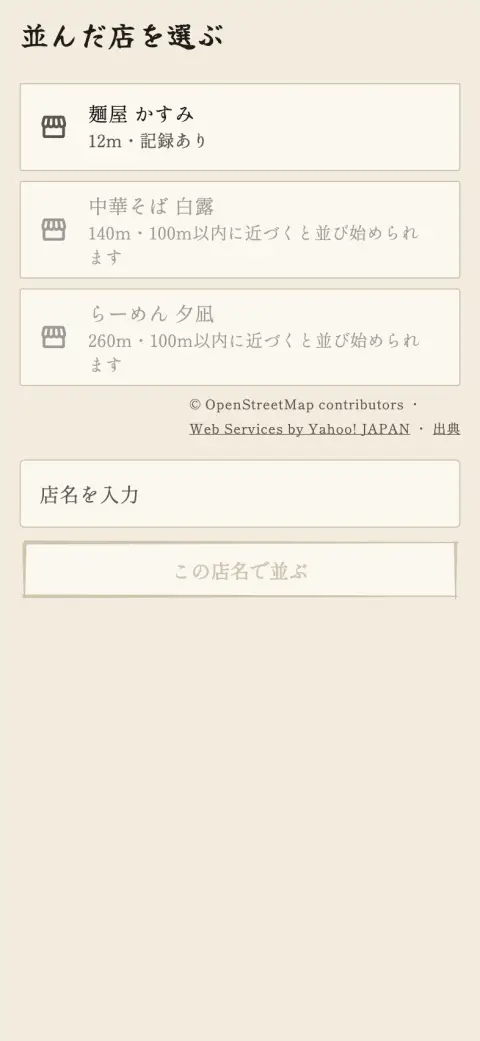
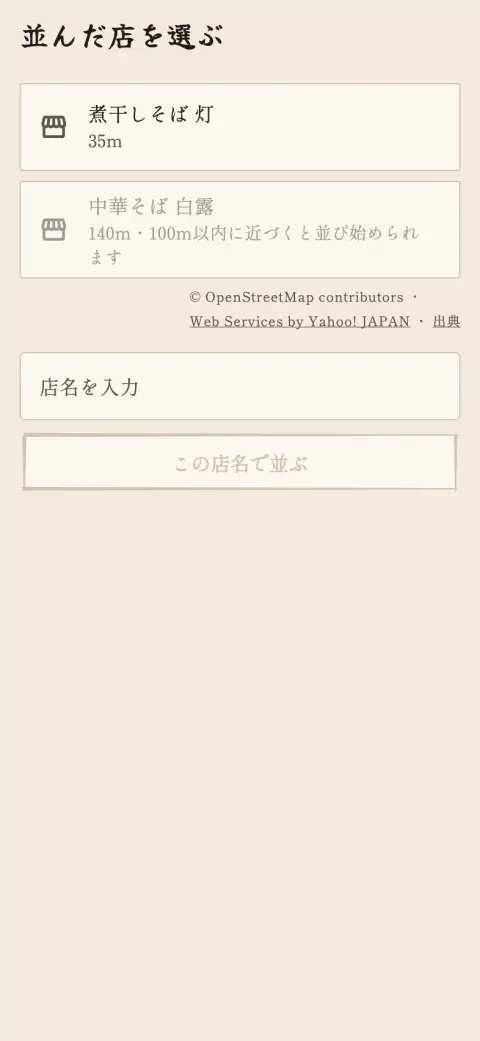
使い方の文言・絵の枠・架空の店の位置を直す

diff --git a/test/tool/help_shots_test.dart b/test/tool/help_shots_test.dart
@@ -68,7 +68,7 @@ const _here = GeoPoint(35.0, 139.0);
 final _kasumi = buildShop(
   id: 'kasumi',
   name: '麺屋 かすみ',
-  latitude: 35.003,
+  latitude: 35.0025,
   longitude: 139.0,
   osmId: 'node/1',
 );
@@ -167,11 +167,15 @@ final _wishes = [
 ];
 
 const _found = [
-  FoundShop(osmId: 'node/1', name: '麺屋 かすみ', location: GeoPoint(35.0, 139.0)),
+  FoundShop(
+    osmId: 'node/1',
+    name: '麺屋 かすみ',
+    location: GeoPoint(35.0025, 139.0),
+  ),
   FoundShop(
     osmId: 'node/21',
     name: '中華そば 白露',
-    location: GeoPoint(35.003, 138.996),
+    location: GeoPoint(35.0025, 138.996),
   ),
   FoundShop(
     osmId: 'node/22',
@@ -187,15 +191,9 @@ const _found = [
 
 const _candidates = [
   ShopCandidate(
-    shopId: 'kasumi',
-    name: '麺屋 かすみ',
-    location: GeoPoint(35.0, 139.0),
-    distanceMeters: 12,
-  ),
-  ShopCandidate(
     osmId: 'node/21',
     name: '中華そば 白露',
-    location: GeoPoint(35.003, 138.996),
+    location: GeoPoint(35.0025, 138.996),
     distanceMeters: 140,
   ),
   ShopCandidate(
@@ -203,6 +201,12 @@ const _candidates = [
     name: 'らーめん 夕凪',
     location: GeoPoint(34.996, 139.004),
     distanceMeters: 260,
+  ),
+  ShopCandidate(
+    shopId: 'kasumi',
+    name: '麺屋 かすみ',
+    location: GeoPoint(35.0025, 139.0),
+    distanceMeters: 280,
   ),
 ];
 
@@ -266,13 +270,29 @@ _Scene _sceneFor(HelpShot shot) => switch (shot) {
   HelpShot.recordResult => _scene(
     home: const RecordResultScreen(visitId: 'today'),
   ),
-  HelpShot.queueStart => _scene(home: const CheckinScreen()),
+  HelpShot.queueStart => _scene(
+    home: const CheckinScreen(),
+    candidates: const [
+      ShopCandidate(
+        osmId: 'node/24',
+        name: '煮干しそば 灯',
+        location: GeoPoint(35.0003, 139.0),
+        distanceMeters: 35,
+      ),
+      ShopCandidate(
+        osmId: 'node/21',
+        name: '中華そば 白露',
+        location: GeoPoint(35.0025, 138.996),
+        distanceMeters: 140,
+      ),
+    ],
+  ),
   HelpShot.queueWaiting => _scene(
     tab: AppTab.records,
     checkin: Checkin(
       shopId: _kasumi.id,
       name: _kasumi.name,
-      latitude: 35.003,
+      latitude: 35.0025,
       longitude: 139.0,
       checkedInAt: _now.subtract(const Duration(minutes: 25)),
     ),
@@ -289,6 +309,9 @@ _Scene _sceneFor(HelpShot shot) => switch (shot) {
     tab: AppTab.map,
     act: (tester) async {
       await tester.tap(find.byTooltip(ja.mapSearchHere));
+      await _settle(tester);
+      // 見つかった軒数の知らせが消え、探すボタンが見えるまで待つ。
+      await tester.pump(const Duration(seconds: 5));
       await _settle(tester);
     },
   ),

diff --git a/lib/l10n/app_localizations_ja.dart b/lib/l10n/app_localizations_ja.dart
@@ -1830,7 +1830,8 @@ class AppLocalizationsJa extends AppLocalizations {
   String get helpRatingTitle => '★をあとで付ける';
 
   @override
-  String get helpRating => '★は食べ終わってからで大丈夫です。印帳の上の「〇〇 はどうでしたか？」で付けられます。';
+  String get helpRating =>
+      '★は食べ終わってからで大丈夫です。食べてから半日は、印帳の上の「〇〇 はどうでしたか？」で付けられます。店のページからもいつでも付けられます。';
 
   @override
   String get helpWishTitle => '願掛け';
@@ -1846,7 +1847,7 @@ class AppLocalizationsJa extends AppLocalizations {
   String get helpMapTitle => '地図で店を探す';
 
   @override
-  String get helpMapSearch => '地図の「このあたりのラーメン店を探す」で、まだ行っていない店が灰色のピンで出ます。';
+  String get helpMapSearch => '地図の右下の「このあたりを探す」で、まだ行っていない店が灰色のピンで出ます。';
 
   @override
   String get helpJourneyTitle => '旅路';

diff --git a/lib/l10n/app_localizations.dart b/lib/l10n/app_localizations.dart
@@ -3253,7 +3253,7 @@ abstract class AppLocalizations {
   /// No description provided for @helpRating.
   ///
   /// In ja, this message translates to:
-  /// **'★は食べ終わってからで大丈夫です。印帳の上の「〇〇 はどうでしたか？」で付けられます。'**
+  /// **'★は食べ終わってからで大丈夫です。食べてから半日は、印帳の上の「〇〇 はどうでしたか？」で付けられます。店のページからもいつでも付けられます。'**
   String get helpRating;
 
   /// No description provided for @helpWishTitle.
@@ -3283,7 +3283,7 @@ abstract class AppLocalizations {
   /// No description provided for @helpMapSearch.
   ///
   /// In ja, this message translates to:
-  /// **'地図の「このあたりのラーメン店を探す」で、まだ行っていない店が灰色のピンで出ます。'**
+  /// **'地図の右下の「このあたりを探す」で、まだ行っていない店が灰色のピンで出ます。'**
   String get helpMapSearch;
 
   /// No description provided for @helpJourneyTitle.

diff --git a/lib/features/help/help_screen.dart b/lib/features/help/help_screen.dart
@@ -149,10 +149,11 @@ class _HelpPageView extends StatelessWidget {
         children: [
           Expanded(
             child: Center(
-              child: DecoratedBox(
+              child: Container(
+                padding: const EdgeInsets.all(3),
                 decoration: BoxDecoration(
+                  color: Washi.ink,
                   borderRadius: BorderRadius.circular(16),
-                  border: Border.all(color: Washi.ink, width: 3),
                   boxShadow: const [
                     BoxShadow(
                       color: Color(0x33000000),
@@ -166,6 +167,7 @@ class _HelpPageView extends StatelessWidget {
                   child: Image.asset(
                     page.shot.asset,
                     fit: BoxFit.contain,
+                    semanticLabel: page.caption(l10n),
                     errorBuilder: (_, _, _) => const AspectRatio(
                       aspectRatio: 393 / 852,
                       child: ColoredBox(color: Washi.page),

diff --git a/docs/decisions/2026-10-06-onboarding-3-steps.md b/docs/decisions/2026-10-06-onboarding-3-steps.md
@@ -2,5 +2,5 @@
 
 - 日付: 2026-10-06
 - 決定: 記録が0件でまだ案内を終えていないときに出す「入門の心得」を、其の一 入門（印の見本と、修行点・段位・願掛けの短い説明）→ 其の二 拠点（「現在地を拠点にする」はその場で呼び名「このあたり」で決めて秘伝「拠点を構える」を知らせる。「地図で選ぶ」だけ拠点の画面を開き、決めたら案内に戻る。「あとで決める」で飛ばす。位置情報の許可は押したときだけ聞く）→ 其の三 始め方（写真から一杯を刻む・いま並んでいる・前の帳面を引き継ぐ・まずは見てまわる）の3段にする。始め方を選ぶと案内を終えてから、その画面を開く。最初の一杯の記録・共有・願掛けの段はやめた
-- 進み具合は documents の `onboarding.json` に段ごとに残し、途中でアプリごと閉じたら次に開いたときにその段から続ける。×・始め方の選択で閉じたら終えたことにし、次からは出さない（設定の「使い方をもう一度見る」で其の一から見直せる。見直しの段は残さない）。「また今度」で閉じたときは終えたことにせず、記録が0件のうちは次に開いたときにまた出す（2026-10-07、#323。「また今度」を押せばまた出ると思った人がいたため）
+- 進み具合は documents の `onboarding.json` に段ごとに残し、途中でアプリごと閉じたら次に開いたときにその段から続ける。×・始め方の選択で閉じたら終えたことにし、次からは出さない（設定の「使い方」のいちばん下の「はじめの案内をもう一度見る」で其の一から見直せる。見直しの段は残さない）。「また今度」で閉じたときは終えたことにせず、記録が0件のうちは次に開いたときにまた出す（2026-10-07、#323。「また今度」を押せばまた出ると思った人がいたため）
 - 理由: 途中で記録・地図・共有などの画面へ移ると、案内に戻りにくかったため（利用者の要望）
